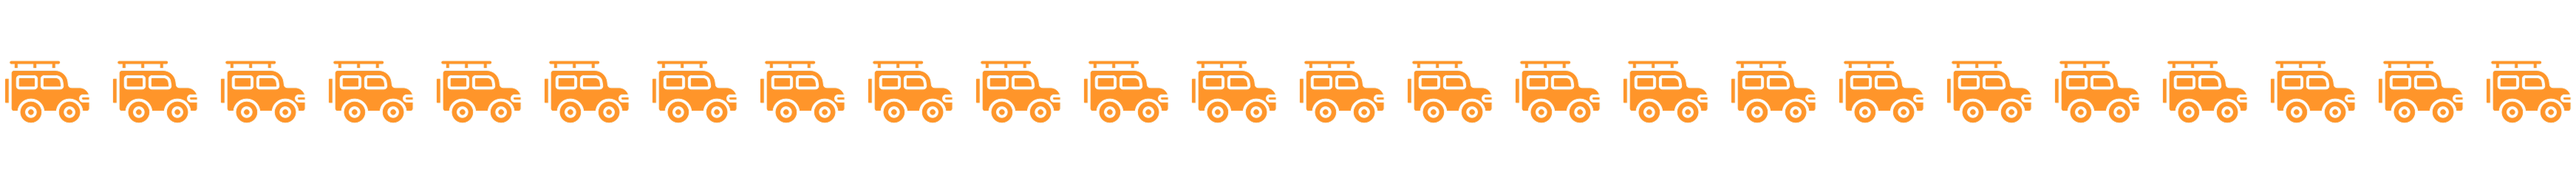
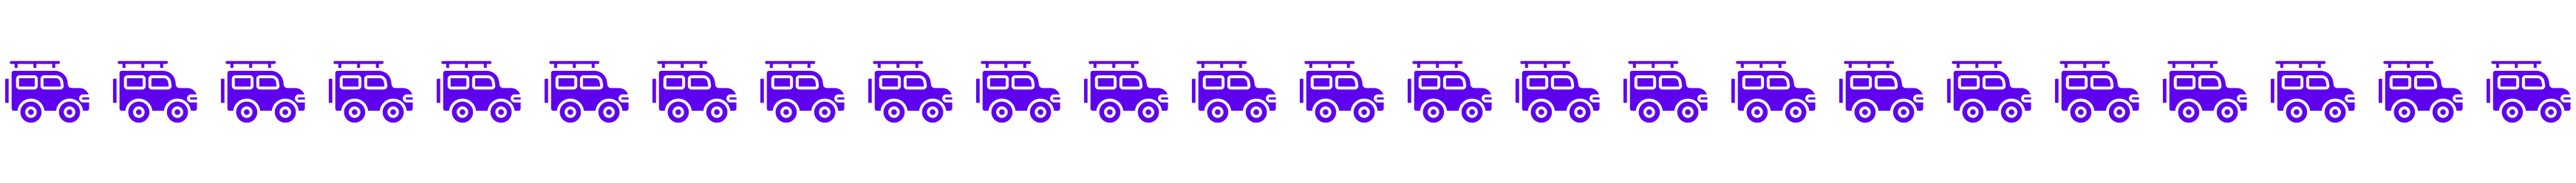
feat(ui): new color ui

Changed region(s): [[0.0, 0.3105, 1.0, 0.6774]]

diff --git a/public/assets/styles/styles.css b/public/assets/styles/styles.css
@@ -1,12 +1,12 @@
 :root {
     --bg-color: #ffffff;
     --secondary-bg-color: #010A04;
-    --bg-tonal: #ff2f2f;
-    --main-color: #FF952A;
-    --secondary-color: #ff4400;
-    --third-color: #5b1800;
+    --bg-tonal: #EFA8EF;
+    --main-color: #5D01EE;
+    --secondary-color: #3d0693;
+    --third-color: #f7d9cf;
     --paragraph: #dbc098;
-    --color-title: #fff0e2;
+    --color-title: #211203;
     --success-color: rgb(80, 227, 194);
     --success-bg: #192526;
     --error-color: rgb(255, 109, 116);
@@ -116,13 +116,13 @@ body {
     border: solid 2px var(--color-title);
     box-shadow: 0px 5px var(--main-color);
     color: var(--color-title);
-    background: var(--bg-tonal);
+    background: var(--bg-color);
 }
 
 .button.__secondary {
     border: var(--third-color);
     box-shadow: 0px 5px var(--secondary-color);
-    color: var(--third-color);
+    color: var(--bg-color);
     background: var(--main-color);
 }
 
@@ -161,6 +161,14 @@ body {
 
 .image__wrapper img {
     animation: fadeInSlide 0.5s ease-out;
+}
+
+.copyright{
+    background: var(--bg-color);
+    padding: 10px 16px;
+    line-height: 1;
+    border-radius: 5px;
+    border: solid 2px var(--color-title);
 }
 
 
